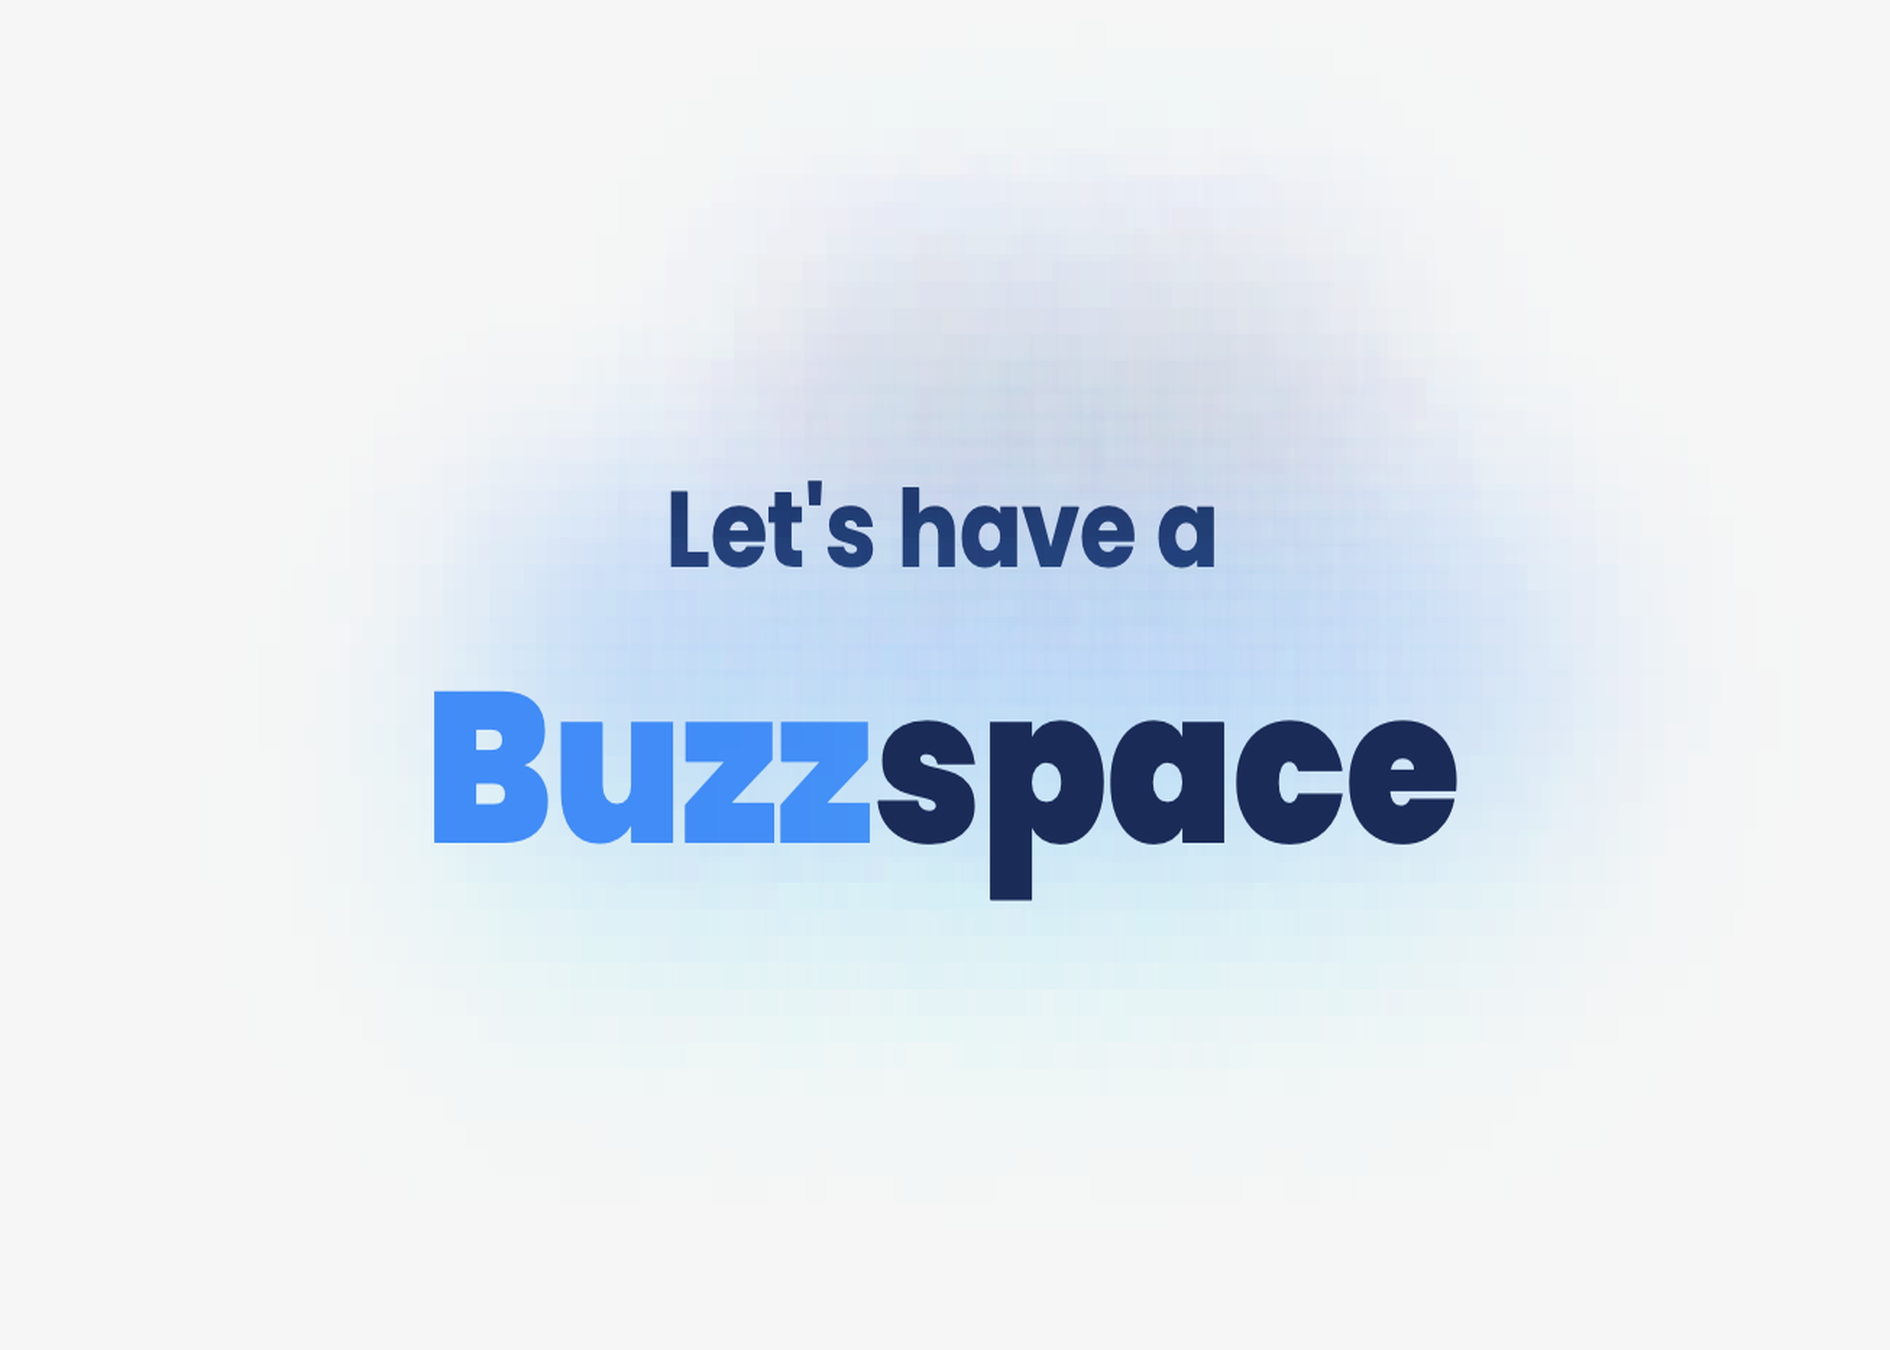
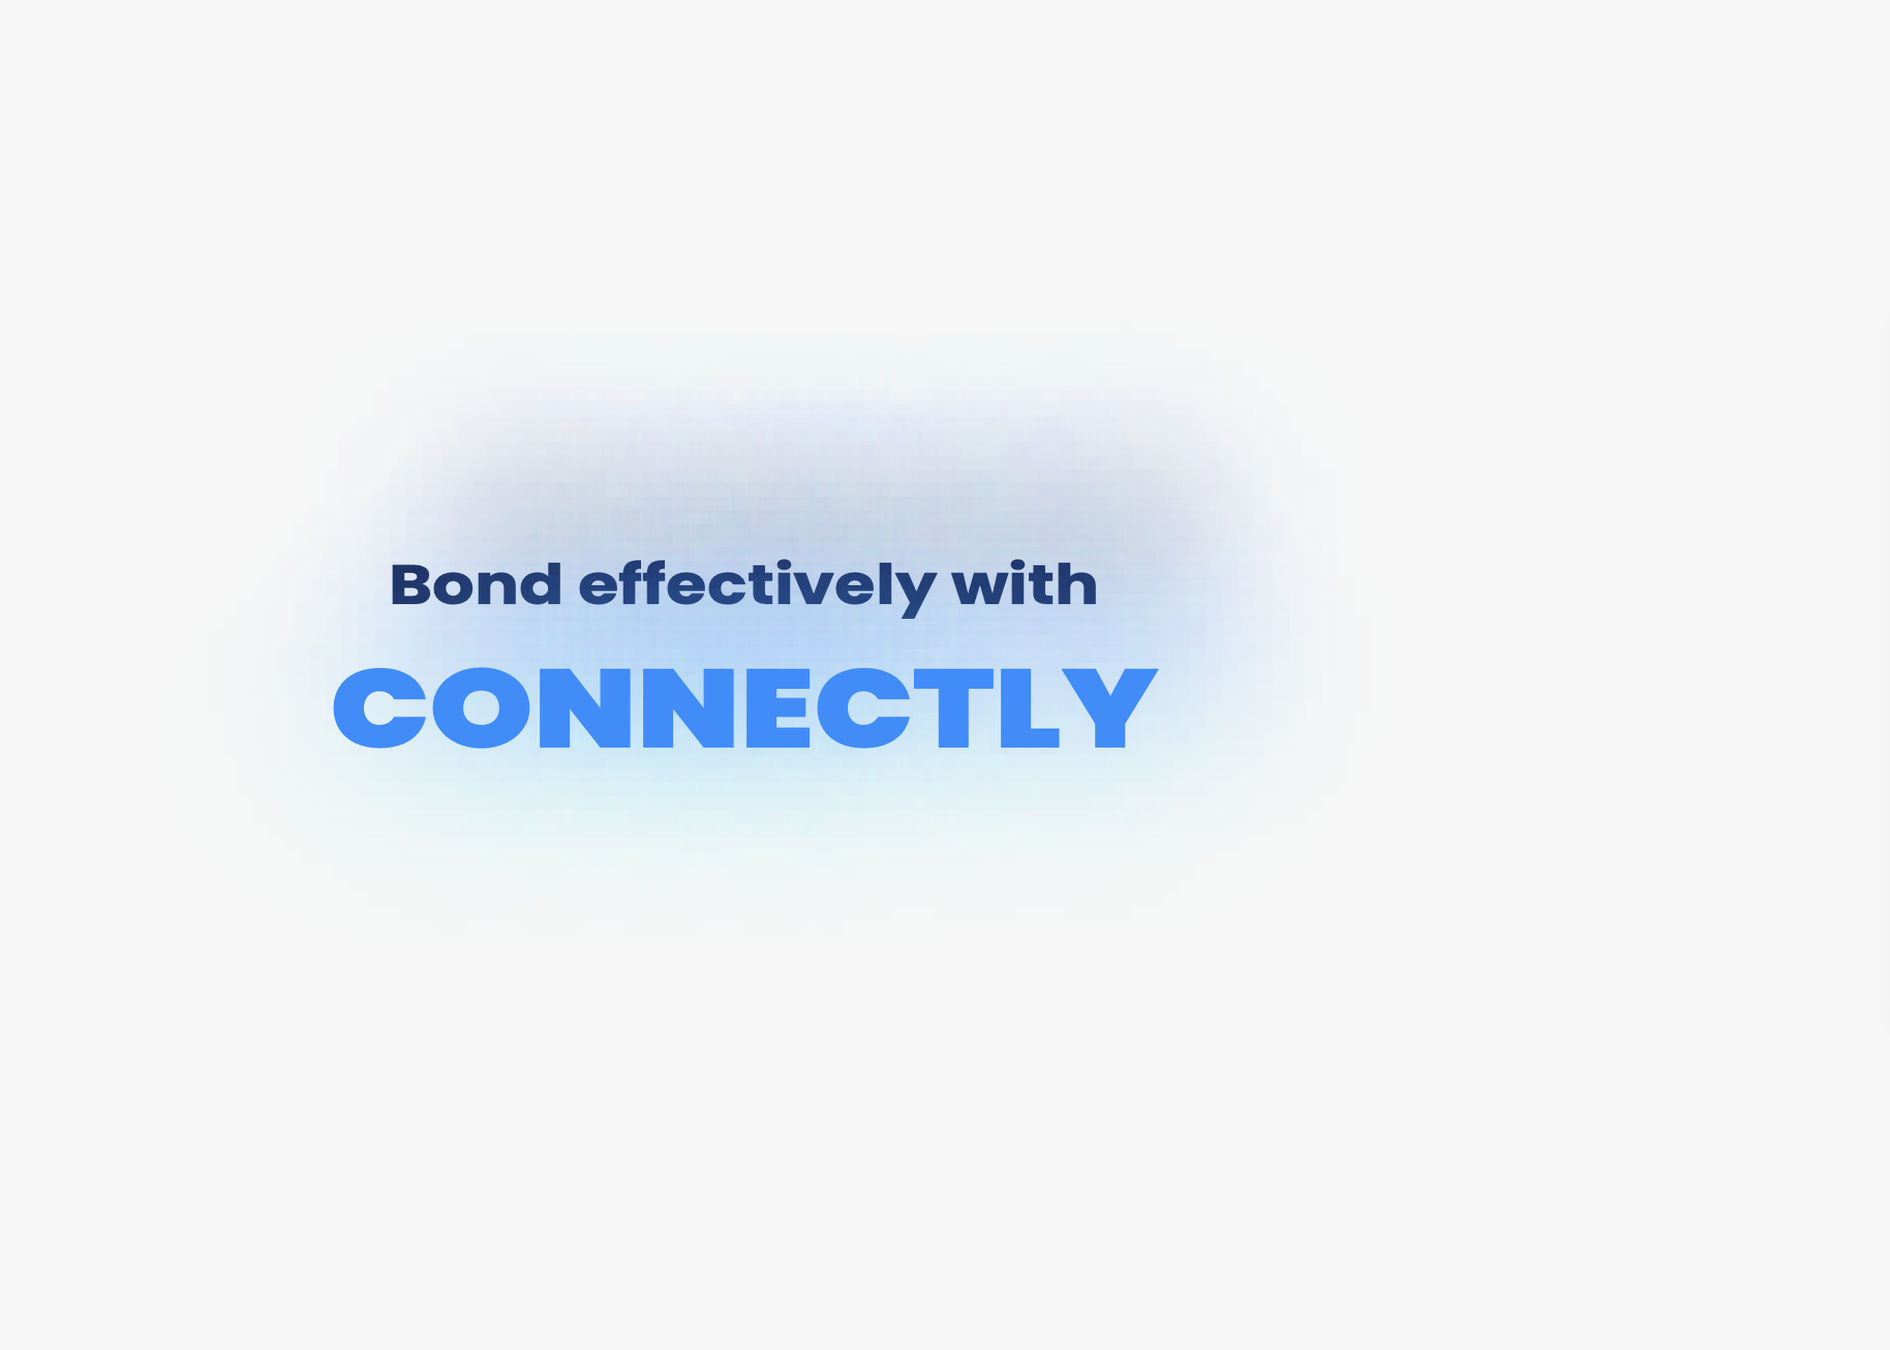
Updated images and Work component

Changed region(s): [[0.1561, 0.1867, 0.8429, 0.7156]]

diff --git a/src/components/work/Work.tsx b/src/components/work/Work.tsx
@@ -1,6 +1,6 @@
 import "./Work.css";
 import connectly from "../../assets/images/connectly.png";
-import lofound from "../../assets/images/lofound.png";
+import foundry from "../../assets/images/foundry.png";
 import dashboard from "../../assets/images/dashboard.png";
 import weather from "../../assets/images/weather.png";
 import expensio from "../../assets/images/expensio.png";
@@ -11,7 +11,7 @@ import { Parallax } from "../../ui/parallax";
 
 let imageMap = {
   connectly,
-  lofound,
+  foundry,
   dashboard,
   weather,
   expensio,
